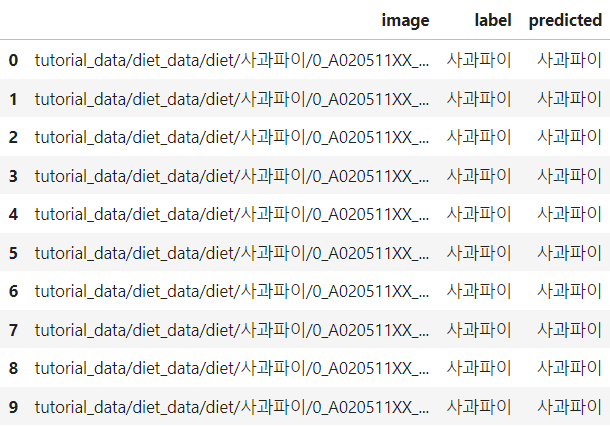
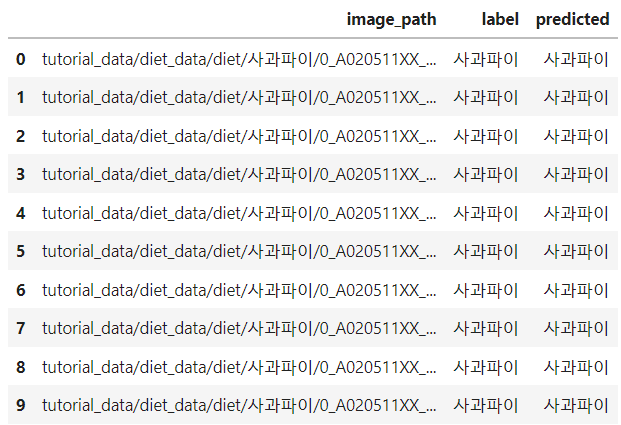
chores: select_image_query typo fixed

diff --git a/docs/tutorials/thanosql_search/image_search/select_image_query.md b/docs/tutorials/thanosql_search/image_search/select_image_query.md
@@ -64,7 +64,7 @@ FROM diet
 !!! note "데이터 테이블 이해하기" 
     <mark style="background-color:#FFEC92">diet</mark> 테이블은 아래와 같은 정보를 담고 있습니다.   
 
-    -  <mark style="background-color:#D7D0FF">image</mark> : 이미지 경로 
+    -  <mark style="background-color:#D7D0FF">image_path</mark> : 이미지 경로 
     -  <mark style="background-color:#D7D0FF">label</mark> : 파일 이름
 
 ## __2. 키워드 검색 모델 생성__ 
@@ -78,13 +78,13 @@ FROM diet
 BUILD MODEL diet_image_classification
 USING ConvNeXt_Tiny
 OPTIONS (
-    image_col='image', 
+    image_col='image_path', 
     label_col='label', 
     epochs=1
     )
 AS 
 SELECT *
-FROM diet
+FROM diet 
 ```
 
     Success
@@ -122,15 +122,15 @@ FROM diet
 
 ```sql
 %%thanosql
-SELECT * 
-FROM (
-    PREDICT USING diet_image_classification
-    AS 
-    SELECT *
-    FROM diet
-    )
-WHERE label = predicted
-AND label LIKE '사과파이'
+SELECT A.image_path, A.label, B.predicted 
+FROM diet A
+LEFT JOIN (
+    SELECT * 
+    FROM (PREDICT USING diet_image_classification 
+    AS SELECT * FROM diet)) B 
+ON A.image_path = B.image_path
+WHERE A.label = B.predicted
+AND A.label LIKE '사과파이'
 LIMIT 10
 ```
 
